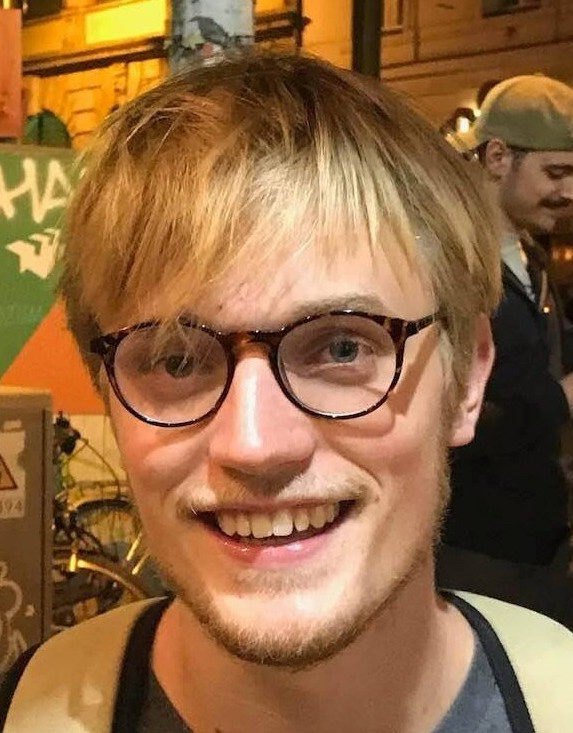
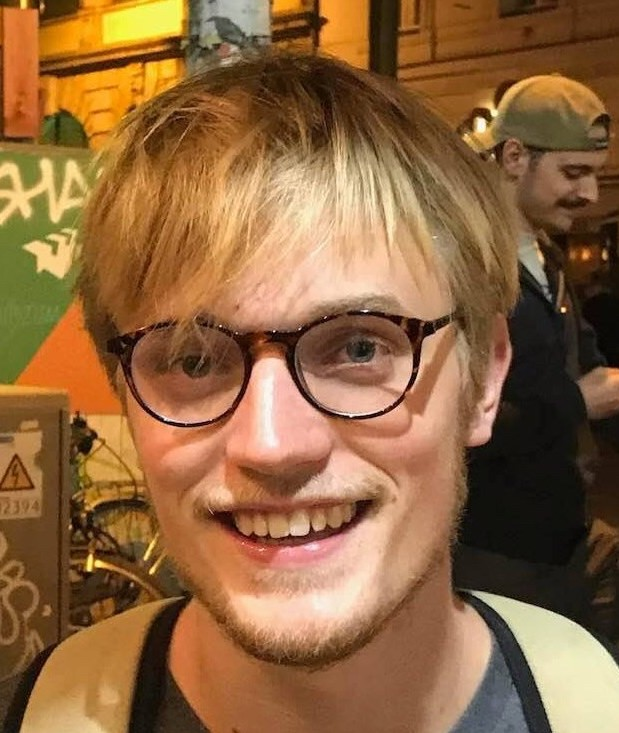
made headshot bigger

diff --git a/portfolio/src/main/webapp/style.css b/portfolio/src/main/webapp/style.css
@@ -1,7 +1,7 @@
 :root {
   --bg-color:rgb(245, 245, 245);
   --font-color: rgb(45,45,45);
-  --headshot-width: 46%;
+  --headshot-width: 55%;
 }
 
 body {
@@ -26,7 +26,7 @@ button {
   margin-right: auto;
   text-align: center;
   width: 650px;
-}
+} 
 
 #headshot {
   height: auto; 
@@ -64,6 +64,7 @@ button {
 
 #intro p {
   margin-left: 20px;
+  margin-right: 20px;
 }
 
 .promo-link {
@@ -79,5 +80,5 @@ button {
   font-style: italic;
   font-weight: bold;
   margin-bottom: 0px;
-  margin-top: 1.7em;
+  margin-top: 2.6em;
 }
